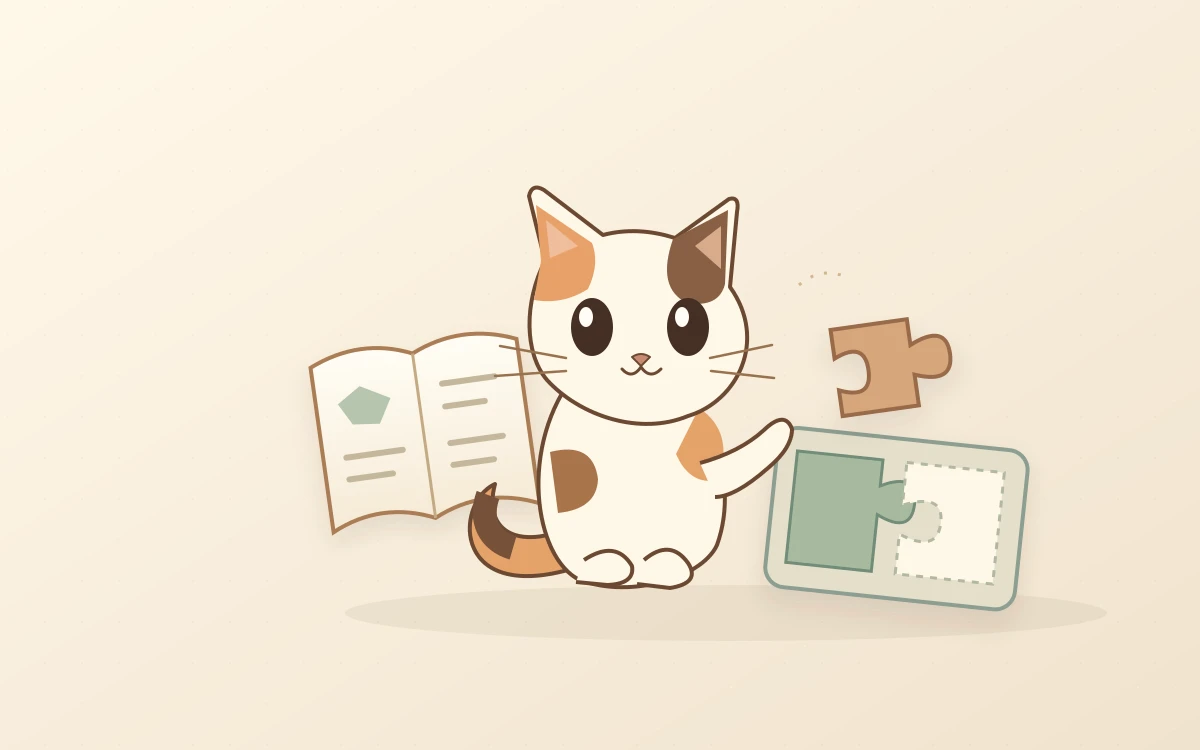
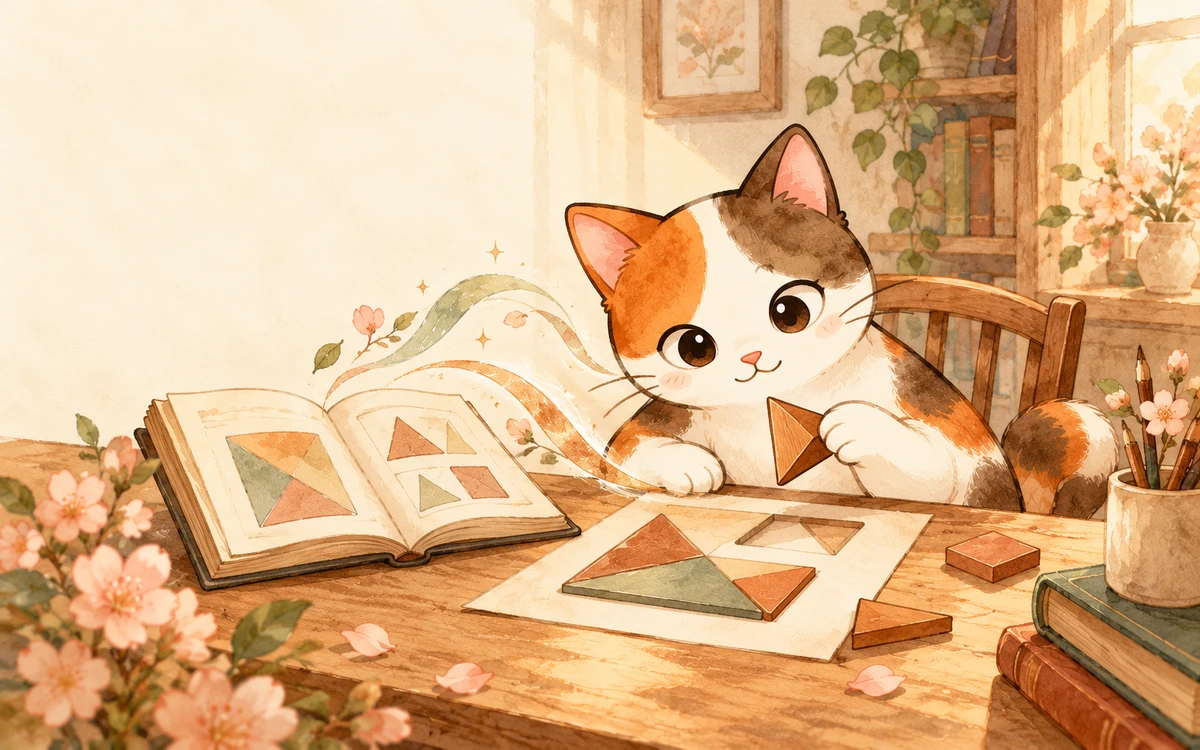
Replace AI Cosmos cover with approved watercolor artwork (#97)
Use the reviewed built-in imagegen raster and matching bilingual alt text.
Keep article bodies and other cover assets unchanged.

diff --git a/src/content/blog/en/150-ai-cosmos-performance-and-learning.md b/src/content/blog/en/150-ai-cosmos-performance-and-learning.md
@@ -15,7 +15,7 @@ tags: ["AI Agent", "Evaluation", "Harness Engineering"]
 kind: "article"
 showToc: true
 image: "/blog/150-ai-cosmos-performance-and-learning/title_image.webp"
-imageAlt: "Original concept illustration: Huahua faces a reference book and an unfinished puzzle, suggesting the step from reading an explanation to solving a new problem."
+imageAlt: "Original watercolor concept illustration: Huahua compares a reference book with an unfinished puzzle at a warm desk, considering how to understand and solve a new problem."
 ---
 
 Imagine a programming exercise: with AI assistance, you get every test to pass. A week later, a differently framed problem requires the same kind of algorithm, and you cannot work out where to start. What did the earlier success establish—your learning, or an artifact that you and the AI produced together?

diff --git a/src/content/blog/150-ai-cosmos-performance-and-learning.md b/src/content/blog/150-ai-cosmos-performance-and-learning.md
@@ -15,7 +15,7 @@ tags: ["AI Agent", "Evaluation", "Harness Engineering"]
 kind: "article"
 showToc: true
 image: "/blog/150-ai-cosmos-performance-and-learning/title_image.webp"
-imageAlt: "原創概念圖：花花面對參考書與尚未拼完的拼圖，呈現從閱讀解釋到解決新問題的距離。"
+imageAlt: "原創水彩概念圖：花花在暖色書桌前比對參考書與未完成拼圖，思考如何理解並解決新問題。"
 ---
 
 想像一個程式練習情境：你在 AI 協助下讓測試全部通過，隔一週遇到換了題目包裝的同類問題，卻不知道從哪裡寫起。前一次完成的，到底是你的學習，還是你和 AI 共同交出的一份產物？
